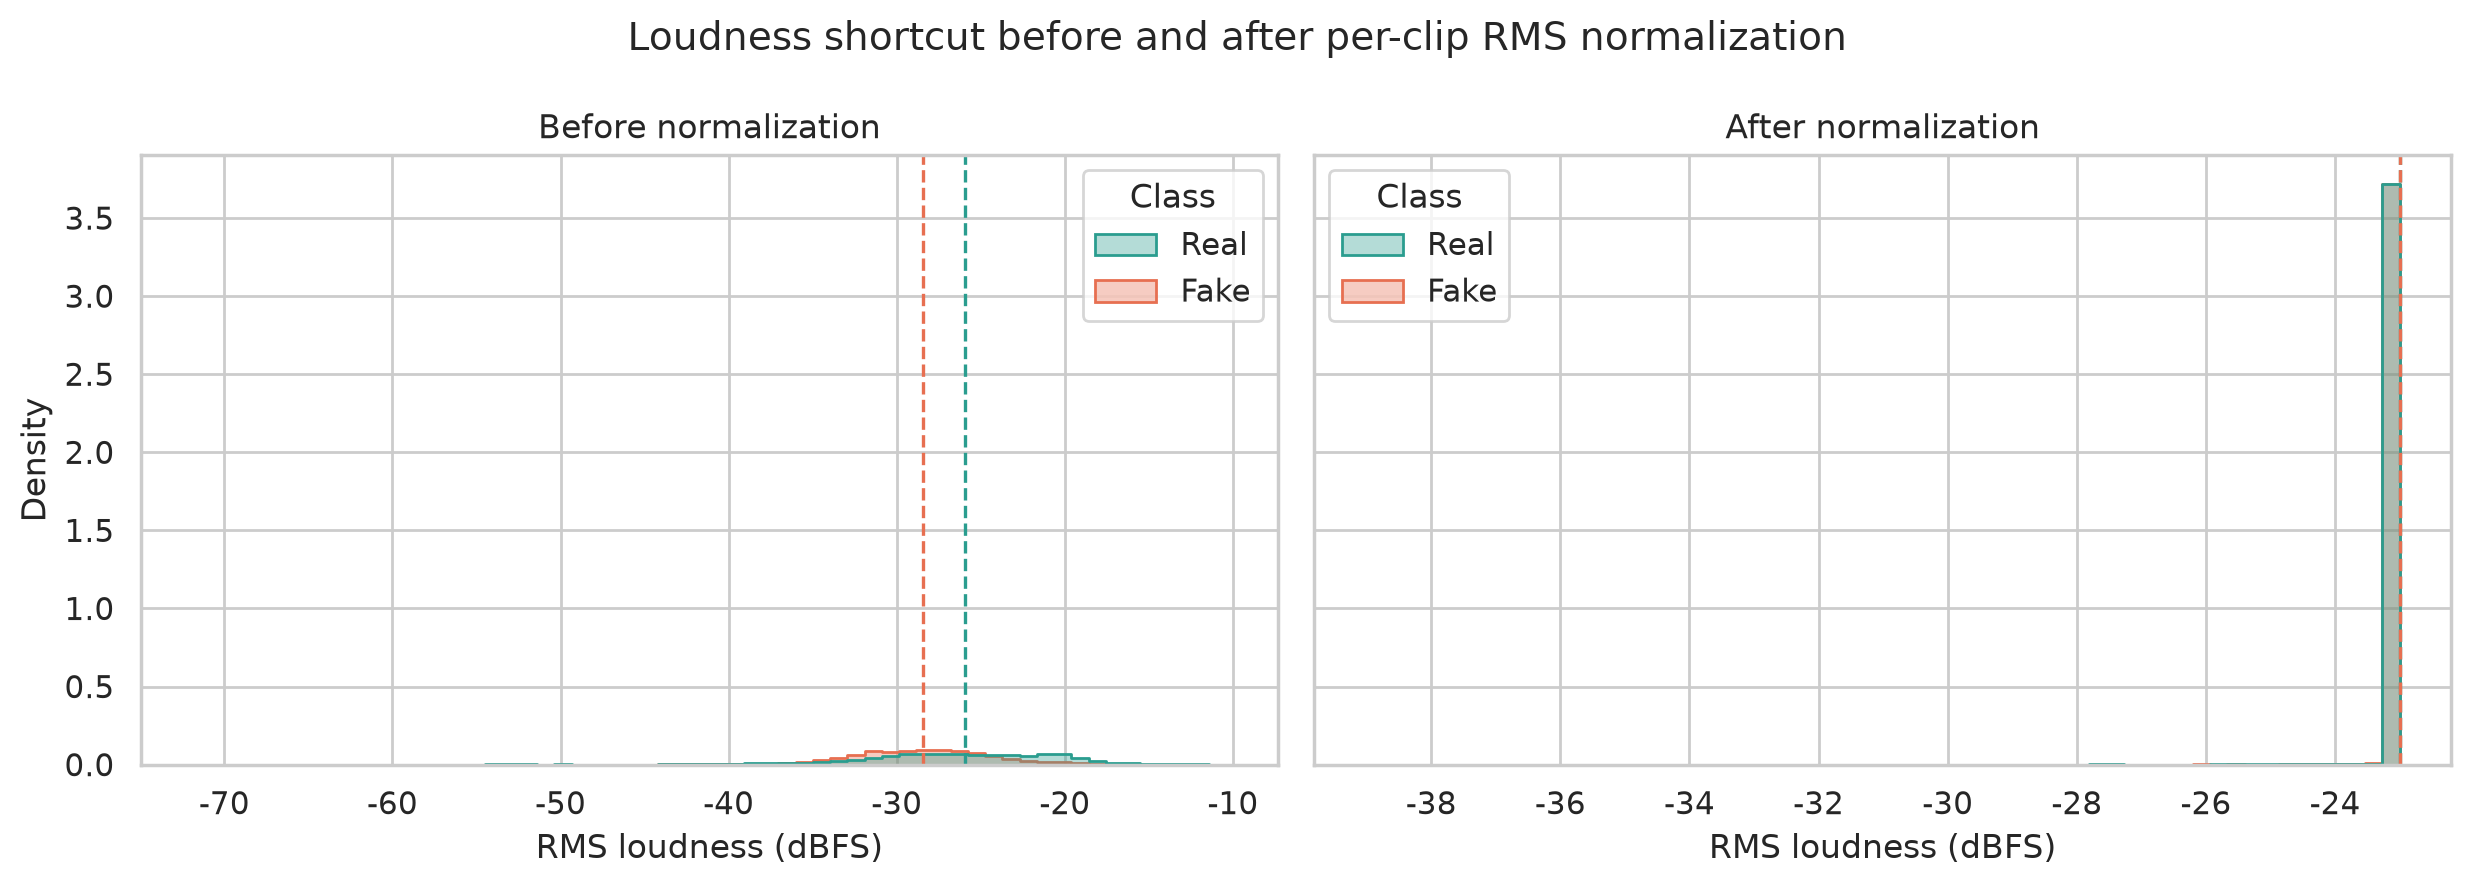
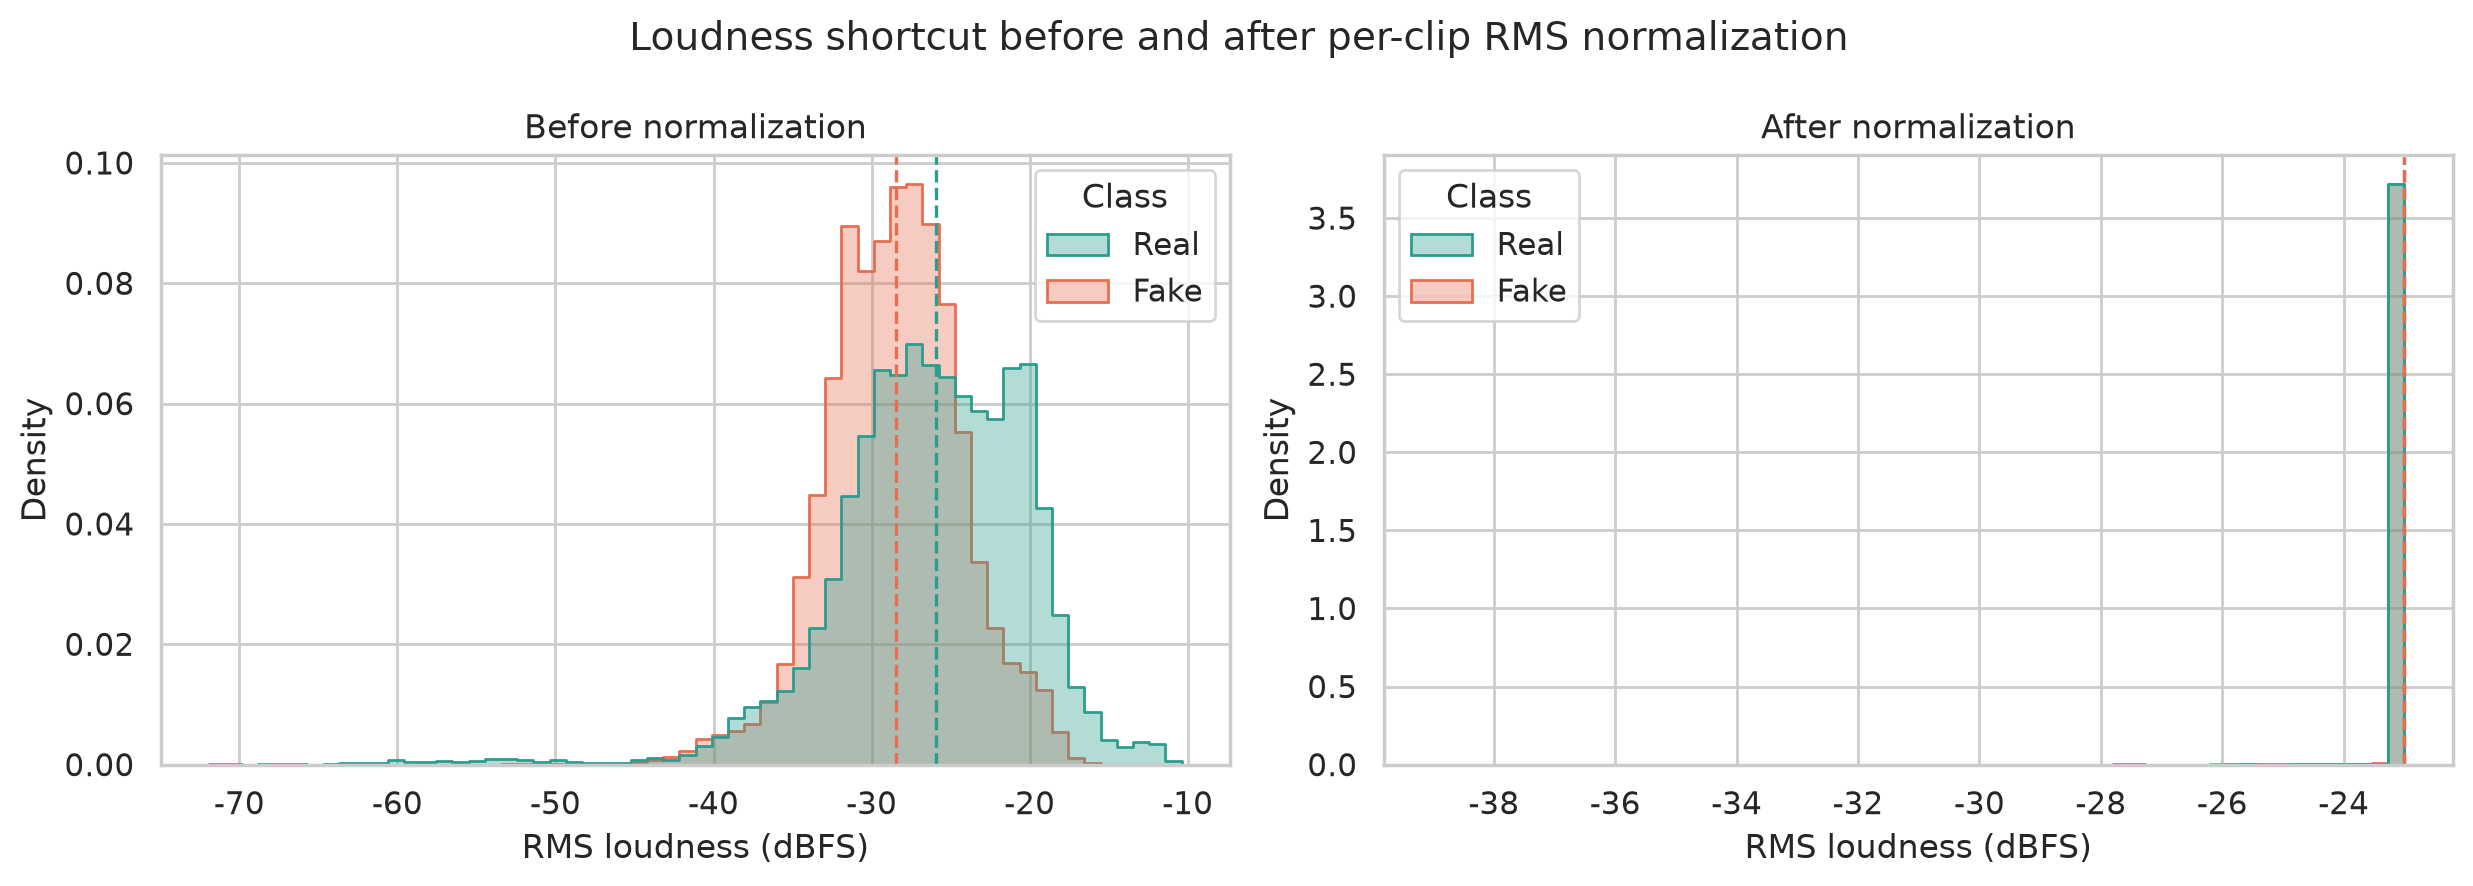
fix: Update figures and documentation for progress report; enhance probability distribution plots

diff --git a/src/06_train_transfer.py b/src/06_train_transfer.py
@@ -31,6 +31,7 @@ import matplotlib
 
 matplotlib.use("Agg")
 import matplotlib.pyplot as plt
+from matplotlib.patches import Patch
 import numpy as np
 import pandas as pd
 import seaborn as sns
@@ -318,11 +319,16 @@ def plot_probabilities(labels: np.ndarray, probs: np.ndarray, model_name: str, p
         alpha=0.35,
         ax=ax,
     )
-    ax.axvline(0.5, color="black", ls="--", lw=1, label="Decision threshold 0.5")
+    threshold_line = ax.axvline(0.5, color="black", ls="--", lw=1, label="Decision threshold 0.5")
     ax.set_xlabel("Predicted probability of fake")
     ax.set_ylabel("Density")
     ax.set_title(f"{model_name}: validation probability distribution")
-    ax.legend(loc="upper center")
+    # histplot's hue legend is replaced below, so rebuild the class entries by hand
+    class_handles = [
+        Patch(facecolor=PALETTE[name], edgecolor=PALETTE[name], alpha=0.35, label=name)
+        for name in CLASS_NAMES
+    ]
+    ax.legend(handles=class_handles + [threshold_line], loc="upper center", ncol=3)
     fig.tight_layout()
     fig.savefig(path)
     plt.close(fig)

diff --git a/src/07_train_hybrid.py b/src/07_train_hybrid.py
@@ -31,6 +31,7 @@ import matplotlib
 
 matplotlib.use("Agg")
 import matplotlib.pyplot as plt
+from matplotlib.patches import Patch
 import numpy as np
 import pandas as pd
 import seaborn as sns
@@ -334,11 +335,16 @@ def plot_probabilities(labels: np.ndarray, probs: np.ndarray, model_name: str, p
         alpha=0.35,
         ax=ax,
     )
-    ax.axvline(0.5, color="black", ls="--", lw=1, label="Decision threshold 0.5")
+    threshold_line = ax.axvline(0.5, color="black", ls="--", lw=1, label="Decision threshold 0.5")
     ax.set_xlabel("Predicted probability of fake")
     ax.set_ylabel("Density")
     ax.set_title(f"{model_name}: validation probability distribution")
-    ax.legend(loc="upper center")
+    # histplot's hue legend is replaced below, so rebuild the class entries by hand
+    class_handles = [
+        Patch(facecolor=PALETTE[name], edgecolor=PALETTE[name], alpha=0.35, label=name)
+        for name in CLASS_NAMES
+    ]
+    ax.legend(handles=class_handles + [threshold_line], loc="upper center", ncol=3)
     fig.tight_layout()
     fig.savefig(path)
     plt.close(fig)

diff --git a/src/05_train_cnn.py b/src/05_train_cnn.py
@@ -31,6 +31,7 @@ import matplotlib
 
 matplotlib.use("Agg")
 import matplotlib.pyplot as plt
+from matplotlib.patches import Patch
 import numpy as np
 import pandas as pd
 import seaborn as sns
@@ -328,11 +329,16 @@ def plot_probabilities(labels: np.ndarray, probs: np.ndarray, output_path: Path)
         alpha=0.35,
         ax=ax,
     )
-    ax.axvline(0.5, color="black", ls="--", lw=1, label="Decision threshold 0.5")
+    threshold_line = ax.axvline(0.5, color="black", ls="--", lw=1, label="Decision threshold 0.5")
     ax.set_xlabel("Predicted probability of fake")
     ax.set_ylabel("Density")
     ax.set_title("Validation probability distribution")
-    ax.legend(loc="upper center")
+    # histplot's hue legend is replaced below, so rebuild the class entries by hand
+    class_handles = [
+        Patch(facecolor=PALETTE[name], edgecolor=PALETTE[name], alpha=0.35, label=name)
+        for name in CLASS_NAMES
+    ]
+    ax.legend(handles=class_handles + [threshold_line], loc="upper center", ncol=3)
     fig.tight_layout()
     fig.savefig(output_path)
     plt.close(fig)

diff --git a/src/03_preprocess.py b/src/03_preprocess.py
@@ -208,7 +208,8 @@ def save_config(output_dir: Path, n_samples: int, normalize: bool) -> None:
 
 
 def plot_loudness_before_after(meta: pd.DataFrame, output_dir: Path) -> None:
-    fig, axes = plt.subplots(1, 2, figsize=(12.5, 4.5), sharey=True)
+    # Independent y axes: the post-normalization spike would otherwise flatten the left panel
+    fig, axes = plt.subplots(1, 2, figsize=(12.5, 4.5))
     for ax, column, title in [
         (axes[0], "rms_before_dbfs", "Before normalization"),
         (axes[1], "rms_after_dbfs", "After normalization"),
@@ -301,7 +302,7 @@ def plot_examples(meta: pd.DataFrame, features_path: Path, output_dir: Path) -> 
     # Use a dedicated colorbar axis so it never covers the Mel panels
     fig = plt.figure(figsize=(13.5, 7))
     gs = fig.add_gridspec(
-        2, 3, width_ratios=[1, 1, 0.045], hspace=0.28, wspace=0.18
+        2, 3, width_ratios=[1, 1, 0.045], hspace=0.28, wspace=0.3
     )
     wave_axes = [fig.add_subplot(gs[0, 0]), fig.add_subplot(gs[0, 1])]
     mel_real_ax = fig.add_subplot(gs[1, 0])

diff --git a/src/02_eda.py b/src/02_eda.py
@@ -9,7 +9,7 @@ Outputs:
     data/processed/eda_label_summary.csv    summary by class
     data/processed/eda_speaker_summary.csv  summary by speaker
     data/processed/eda_tests.csv            statistical test results
-    outputs/figures/02_*.png                figures for the blog
+    outputs/figures/02_*.png                figures for the progress report
     outputs/eda_summary.txt                 text summary
 """
 
@@ -382,7 +382,7 @@ def plot_loudness(df: pd.DataFrame, summary: pd.DataFrame) -> None:
     for label in ["real", "fake"]:
         med = summary.loc[label, "rms_median"]
         axes[0].axvline(med, color=COLORS[label], ls="--", lw=1.5)
-    # The two medians are only ~2.5 dB apart, so stagger the labels in the top-right corner
+    # The two medians are only ~2.4 dB apart, so stagger the labels in the top-right corner
     axes[0].text(
         0.98,
         0.95,

diff --git a/progress_EN.md b/progress_EN.md
@@ -234,12 +234,15 @@ systematic real/fake differences; and visualize waveforms and Mel-spectrograms.
 - Shortcut analysis: ROC-AUC of duration-only and loudness-only classifiers,
   including within-speaker variants and per-speaker AUC.
 - Visualization sample: one real and one fake clip from the same speaker
-  (Alec Guinness), each close to 4 seconds and close to its class median loudness.
-- Mean Mel: 120 random 4-second clips per class; each clip's mean energy was
+  (Alec Guinness), each 3.5-4.5 seconds long and the closest to the median loudness
+  of that speaker's clips of the same class and length range.
+- Mean Mel: 120 randomly sampled clips per class (seed 42). Each clip is cut to its
+  first 4 seconds, or zero-padded at the end if shorter; each clip's mean energy was
   subtracted before averaging so that loudness would not dominate the comparison.
 - Outputs: `data/processed/audio_stats.csv`, `eda_label_summary.csv`,
   `eda_tests.csv`, `eda_speaker_summary.csv`, `eda_speaker_tests.csv`,
-  `eda_shortcut_auc.csv`, and `eda_per_speaker_auc.csv`.
+  `eda_shortcut_auc.csv`, and `eda_per_speaker_auc.csv`; a text summary in
+  `outputs/eda_summary.txt`.
 
 **Key numbers**
 
@@ -277,8 +280,8 @@ systematic real/fake differences; and visualize waveforms and Mel-spectrograms.
 | `outputs/figures/02_speaker_duration_scatter.png` | Most speakers lie above the y = x line: fake clips are usually longer even within the same speaker. |
 | `outputs/figures/02_shortcut_auc_by_speaker.png` | Loudness is a strong shortcut for many speakers, with AUC values close to 0 or 1. |
 | `outputs/figures/02_waveform_comparison.png` | Waveforms from the same speaker look different in amplitude and envelope. |
-| `outputs/figures/02_mel_comparison.png` | The fake example shows less high-frequency energy and stronger harmonic stripes; this is illustrative only. |
-| `outputs/figures/02_mean_mel_by_class.png` | After removing loudness, the average spectra still differ, with real speech showing relatively more energy in the upper bands; the models must confirm whether this difference is robust. |
+| `outputs/figures/02_mel_comparison.png` | The fake example has a much darker background (lower noise floor) and less high-frequency energy; this is illustrative only. |
+| `outputs/figures/02_mean_mel_by_class.png` | After removing loudness, the average spectra still differ, with real speech showing relatively more energy in the upper bands. The difference map after about 2 seconds mostly reflects zero padding (real clips are shorter), not a spectral difference. |
 
 **Caveats**
 
@@ -289,8 +292,11 @@ systematic real/fake differences; and visualize waveforms and Mel-spectrograms.
 - Speaker composition is strongly correlated with class balance. A random file-level
   split would leak both speaker identity and the duration/loudness shortcuts.
 - The single waveform and Mel examples are illustrative, not causal evidence. The
-  averaged Mel comparison is more reliable but still descriptive; the models must
-  confirm whether these differences generalize.
+  averaged Mel comparison is more reliable but still descriptive, and it is partly
+  confounded by clip length: this EDA figure zero-pads short clips, and real clips
+  are shorter, so the later time frames mix in silence. The upper-band difference
+  itself is confirmed in Step 9 on the wrap-padded model inputs (training real
+  -11.9 dB vs training fake -13.5 dB relative high-band energy).
 - Step 3 therefore standardizes duration (crop/pad) and normalizes loudness per
   clip. A non-normalized control version was planned to measure how much
   performance depends on shortcuts, but it was not run (see Step 9 Limitations).
